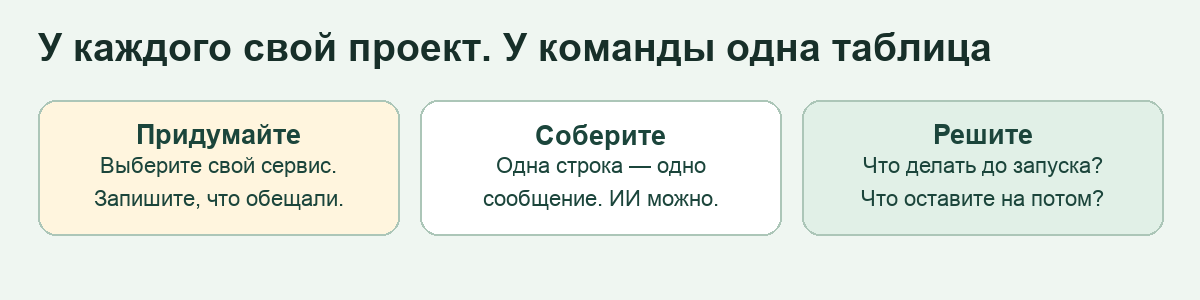
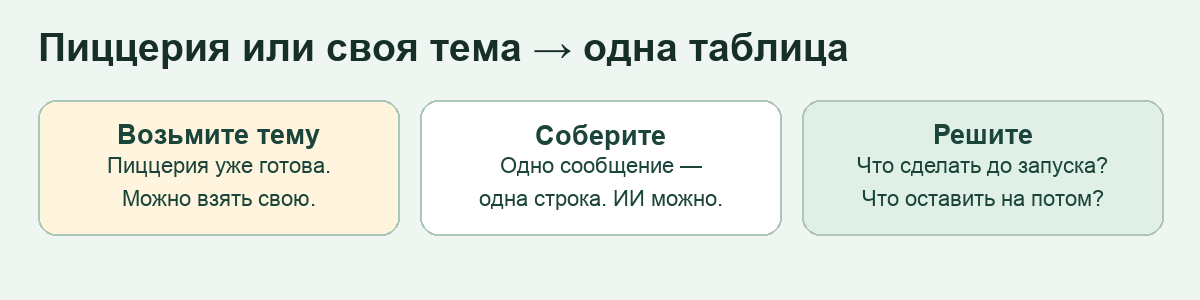
Keep the pizzeria as the ready-to-use project

diff --git a/Управление изменениями.md b/Управление изменениями.md
@@ -4,7 +4,7 @@
 
 1. **Разберите порядок действий** в лекции и зарисуйте отмеченную схему.
 2. **Проследите, как команда сайта подкаста применяет этот порядок.** Посмотрите на заполненную таблицу и решение.
-3. **Выберите свой проект.** В команде соберите обращения по разным проектам и решите, чем заняться перед запуском.
+3. **Соберите обращения в одну таблицу.** Возьмите готовый кейс про пиццерию или выберите свою тему.
 
 ## Лекция
 
@@ -127,17 +127,27 @@
 
 ![Маршрут работы: выбрать свой проект, придумать сообщения, принять решение](Схемы/команда-перед-запуском.png)
 
-### 1. Разделитесь на команды и выберите свои проекты
+### 1. Возьмите готовую пиццерию или свою тему
 
-Внутри команды **каждый выбирает свою тему**. Это может быть пиццерия, игра, сервис доставки, запись в барбершоп, прокат самокатов или что угодно знакомое. Для своего проекта напишите название, кто им пользуется и какие функции уже обещали к запуску. Достаточно короткого описания.
+Разделитесь на команды. **Можно всей командой взять пиццерию.** Кто хочет, может записывать в ту же таблицу сообщения про свой сервис. Название указывайте в первом столбце.
+
+**Готовая ситуация.** В пятницу пиццерия запускает онлайн-заказы. Покупатель видит свои заказы, кассир — все. Сайт должен сохранять имя для выдачи. Уже пришли три сообщения:
+
+- **Кассир** — «Хочу выбрать “Готовится” и увидеть только заказы с этим статусом».
+- **Покупатель** — «После оформления заказа пропало имя для выдачи».
+- **Управляющий** — «Если добавите фильтр, он должен быть только у кассира».
+
+Начните с этих сообщений. Разберите их по образцу про подкаст, затем придумайте другие сообщения про пиццерию. Можно использовать ИИ.
+
+**Если выбрали свою тему**, коротко запишите, кто пользуется вашим сервисом и что он уже должен уметь. Затем придумайте сообщения от его пользователей или сотрудников.
 
 ### 2. Придумайте много сообщений
 
 Представьте, что вам пишут разные люди: клиент, сотрудник, владелец, курьер или игрок. Для каждого придумайте, чего он просит, на что жалуется или что хочет уточнить. Пишите сообщения от лица этих людей, как в примере про подкаст.
 
-**Одно сообщение — одна строка.** Сделайте с командой общий лист **«Обращения»** в Excel или одну общую таблицу в тетради. Перенесите шесть заголовков из заполненного примера. Каждый добавляет строки про свой проект и указывает своё имя в столбце «Кто придумал строку».
+**Одно сообщение — одна строка.** Сделайте с командой общий лист **«Обращения»** в Excel или одну общую таблицу в тетради. Перенесите шесть заголовков из заполненного примера. Каждый добавляет свои строки про пиццерию или выбранный сервис. Для готовых сообщений в столбце «Кто придумал строку» напишите «Дано в задании». Для придуманных укажите своё имя.
 
-Когда идеи закончатся, обменяйтесь проектами с соседями по команде. Посмотрите на чужой сервис глазами клиента или сотрудника и придумайте обращения, которых ещё нет. Добавьте их в ту же таблицу, сохраняя название проекта и имя автора. Добивайтесь разнообразия: у сообщений могут быть разные авторы, проблемы и последствия для запуска.
+Когда идеи закончатся, обменяйтесь таблицами или идеями с соседями по команде. Посмотрите на сервис глазами другого клиента или сотрудника и придумайте обращения, которых ещё нет. Добавьте их в ту же таблицу, сохраняя название проекта и имя автора. Добивайтесь разнообразия: у сообщений могут быть разные авторы, проблемы и последствия для запуска.
 
 ### 3. ИИ можно использовать
 

diff --git a/README.md b/README.md
@@ -10,4 +10,4 @@
 
 Откройте занятие своей пары по ссылке выше. Лекция, схемы и все исходные данные для практической находятся на одной странице. Работу покажите на экране или в тетради.
 
-**Для 1-й и 2-й пар.** Сначала посмотрите [заполненный пример про подкаст](Управление%20изменениями.md#рассмотрим-пример-ситуации-подкаст-выходит-в-эфир). Затем [разделитесь на команды и выберите свои проекты](Управление%20изменениями.md#практическая-работа-команда-перед-запуском).
+**Для 1-й и 2-й пар.** Сначала посмотрите [заполненный пример про подкаст](Управление%20изменениями.md#рассмотрим-пример-ситуации-подкаст-выходит-в-эфир). Затем [откройте задание с готовой ситуацией про пиццерию](Управление%20изменениями.md#практическая-работа-команда-перед-запуском).
